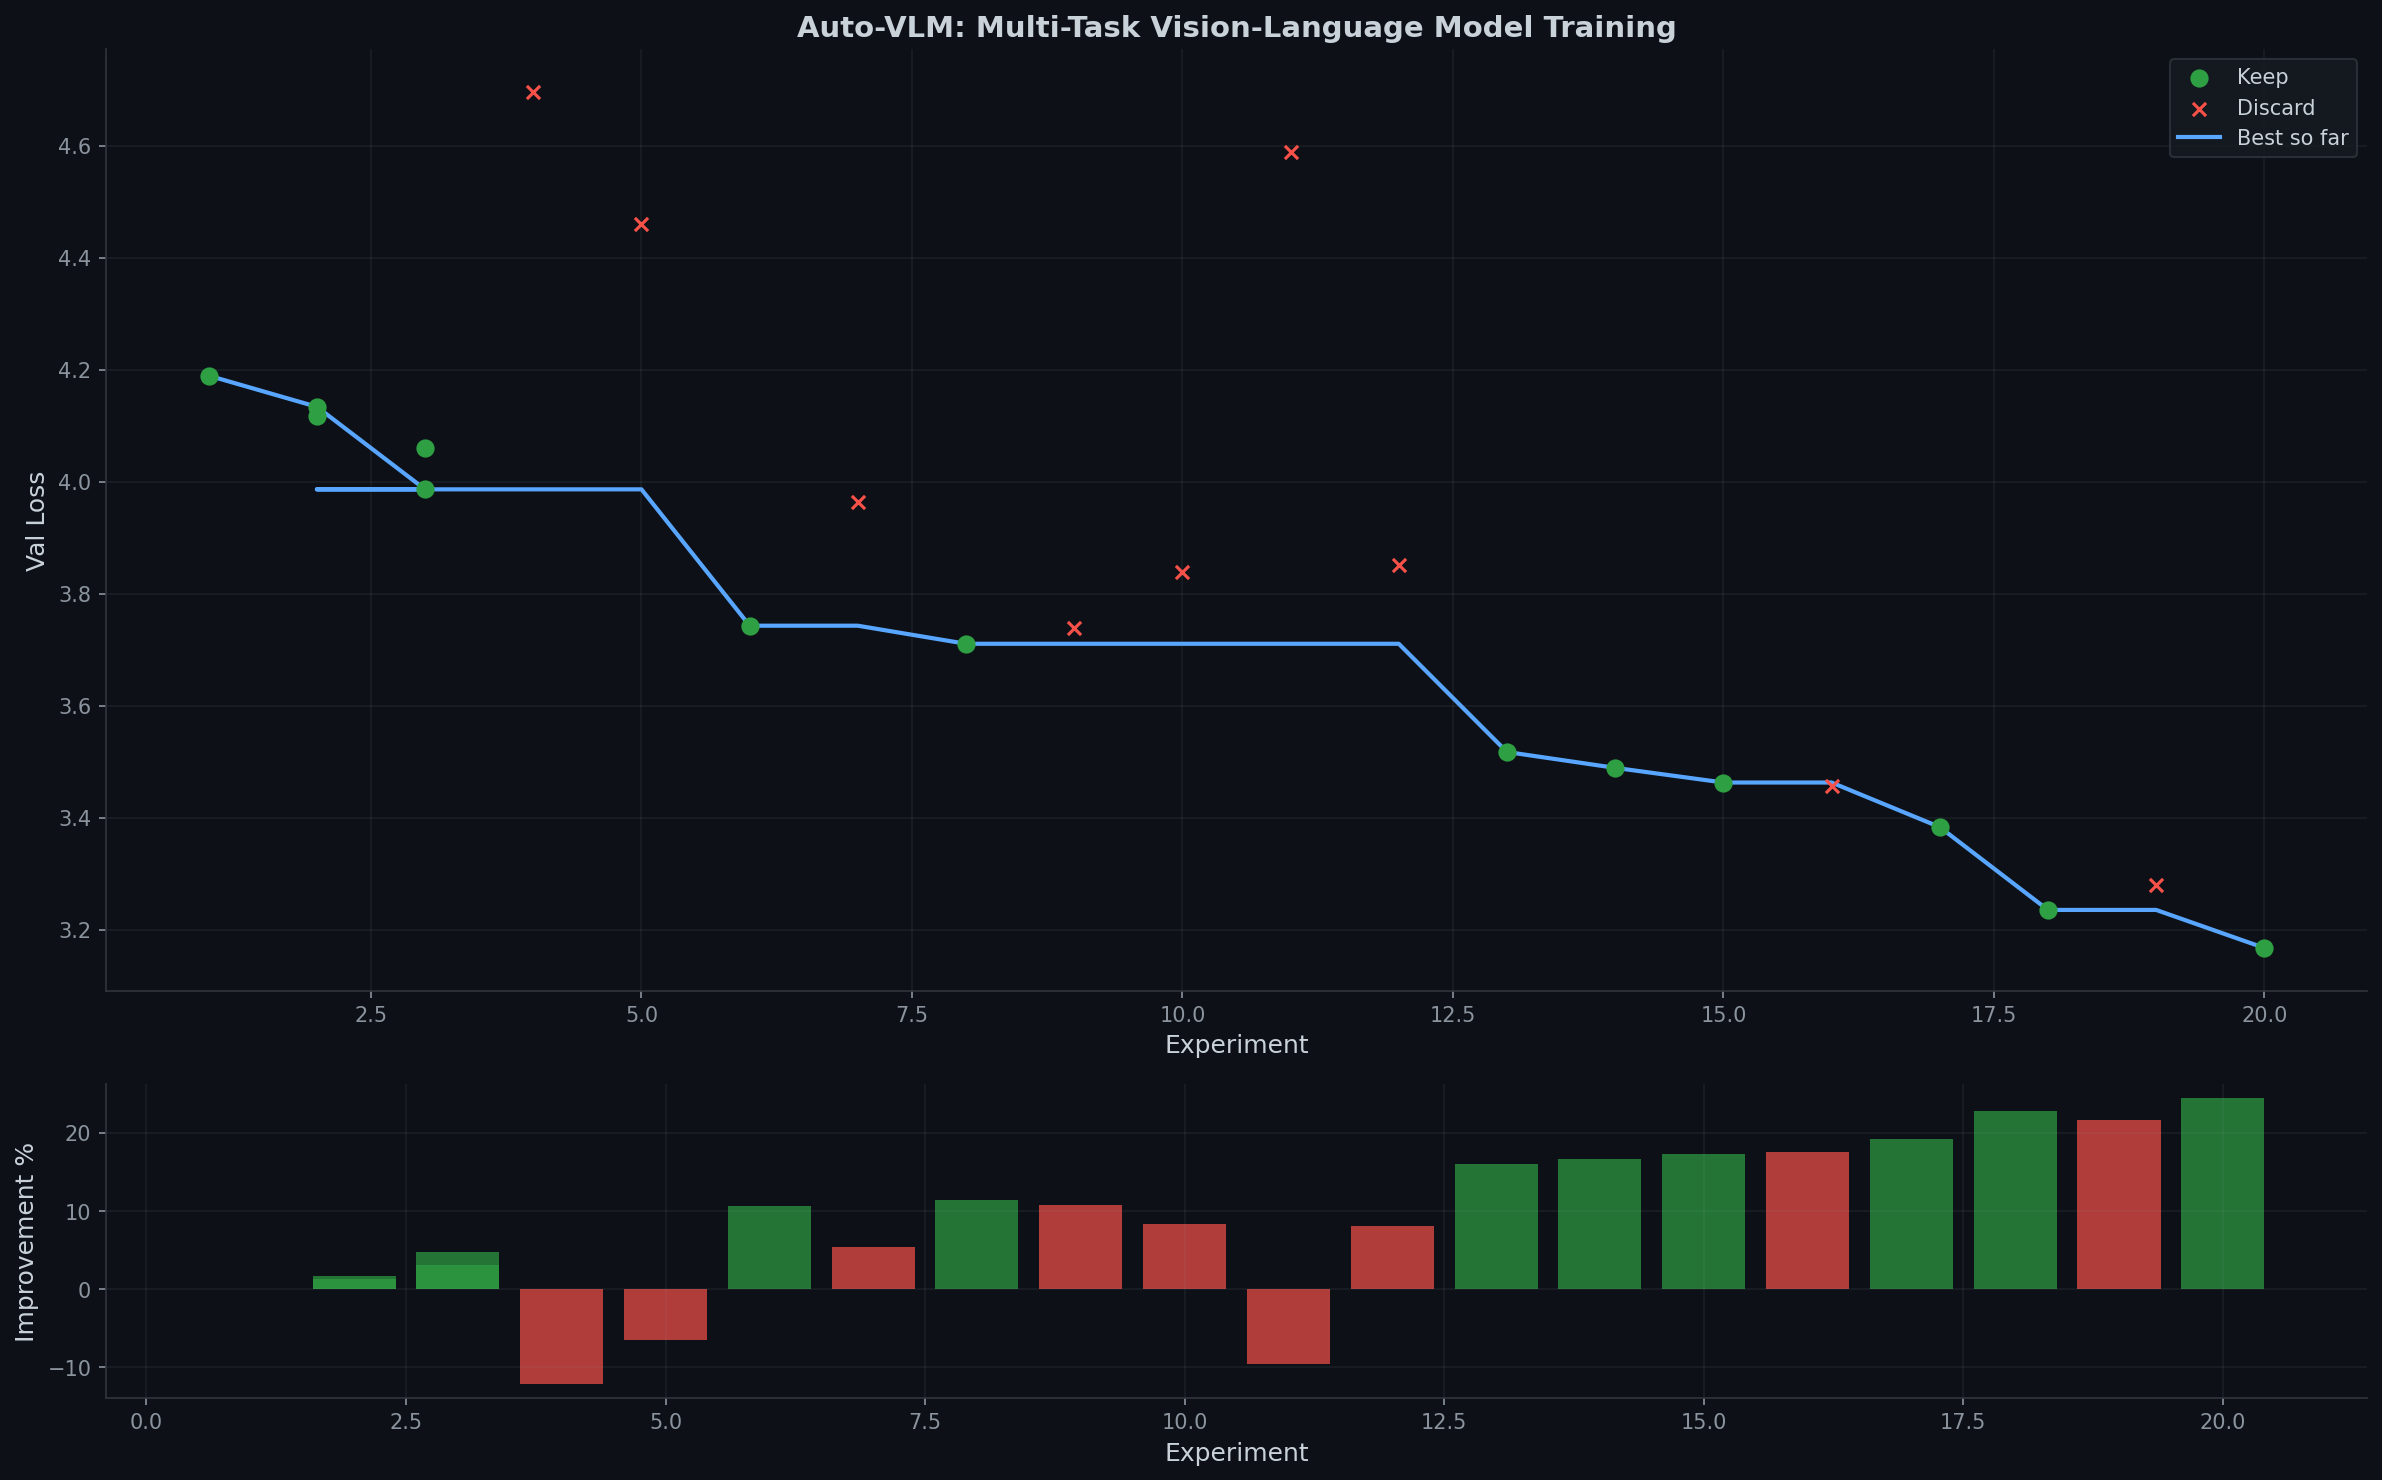
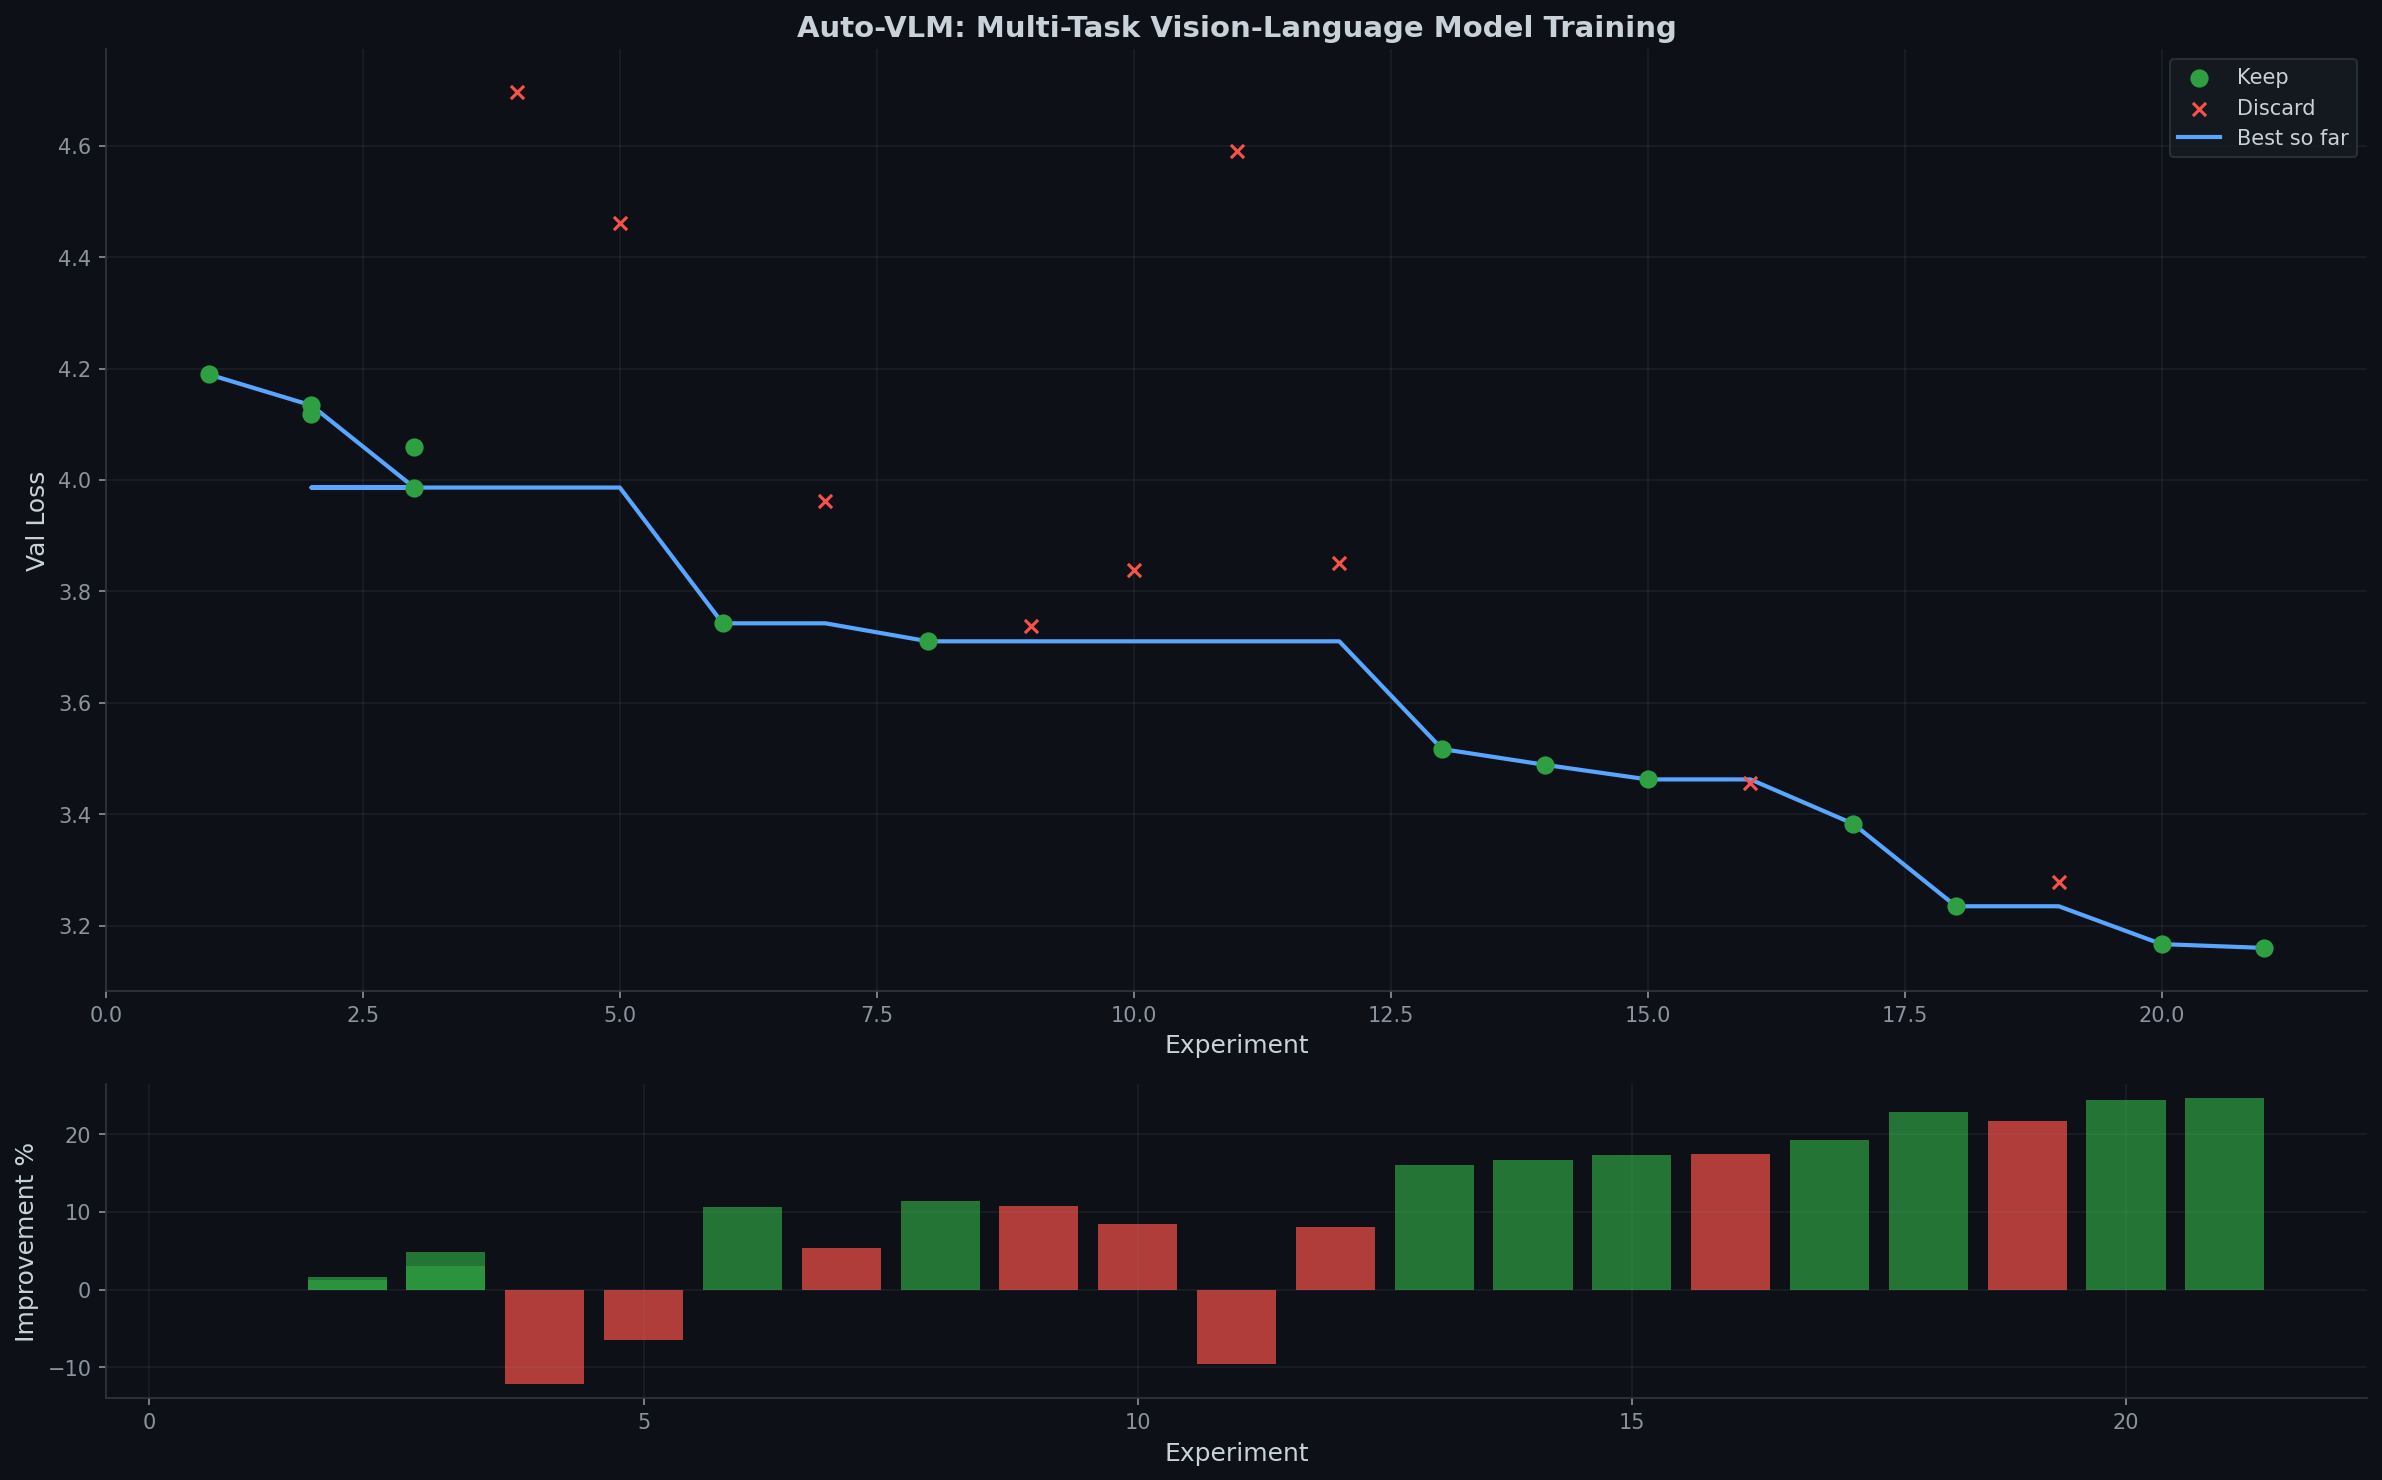
exp 021: grad_clip=0.5 (val=3.1603, 24.6%) NEW BEST

diff --git a/index.html b/index.html
@@ -136,10 +136,10 @@
     </div>
 
     <div class="stats">
-        <div class="stat-card"><div class="label">Experiments</div><div class="value" id="total-exp">22</div></div>
-        <div class="stat-card"><div class="label">Kept</div><div class="value green" id="kept-exp">13</div></div>
-        <div class="stat-card"><div class="label">Best Val Loss</div><div class="value" id="best-loss">3.1672</div></div>
-        <div class="stat-card"><div class="label">Improvement</div><div class="value yellow" id="improvement">24.4%</div></div>
+        <div class="stat-card"><div class="label">Experiments</div><div class="value" id="total-exp">23</div></div>
+        <div class="stat-card"><div class="label">Kept</div><div class="value green" id="kept-exp">14</div></div>
+        <div class="stat-card"><div class="label">Best Val Loss</div><div class="value" id="best-loss">3.1603</div></div>
+        <div class="stat-card"><div class="label">Improvement</div><div class="value yellow" id="improvement">24.6%</div></div>
     </div>
 
     <div class="plot-container">

diff --git a/train_mlx.py b/train_mlx.py
@@ -44,7 +44,7 @@ class Config:
     weight_decay: float = 0.1
     warmup_steps: int = 50
     dropout: float = 0.1
-    grad_clip: float = 1.0
+    grad_clip: float = 0.5
     time_budget: int = 3600  # seconds
 
     # Loss weights
